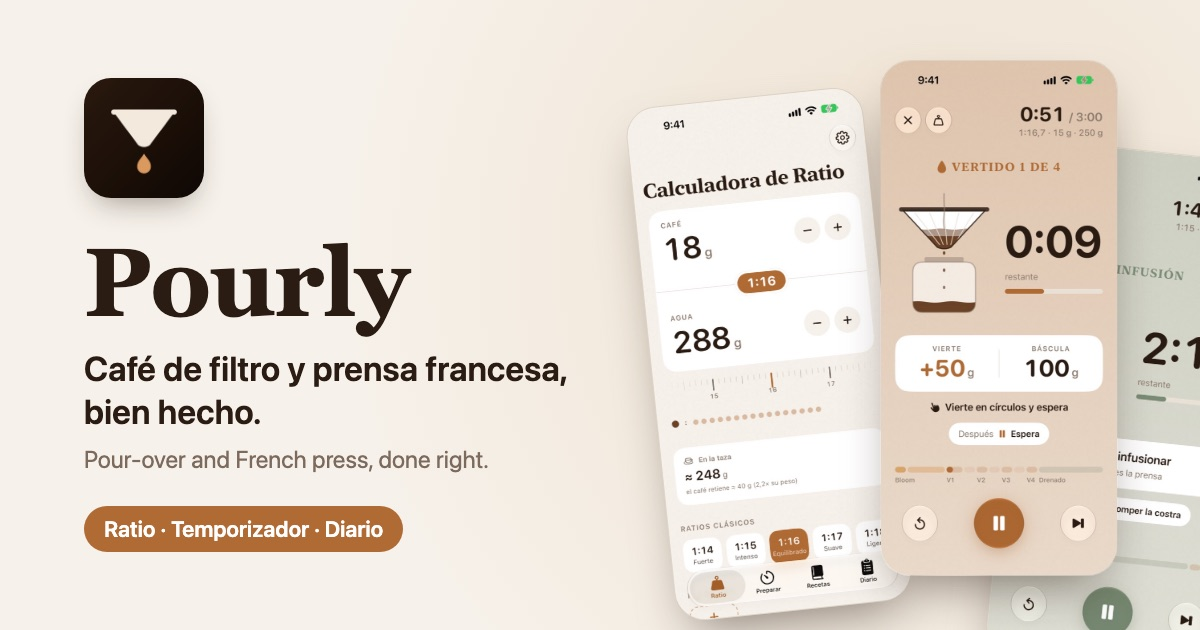
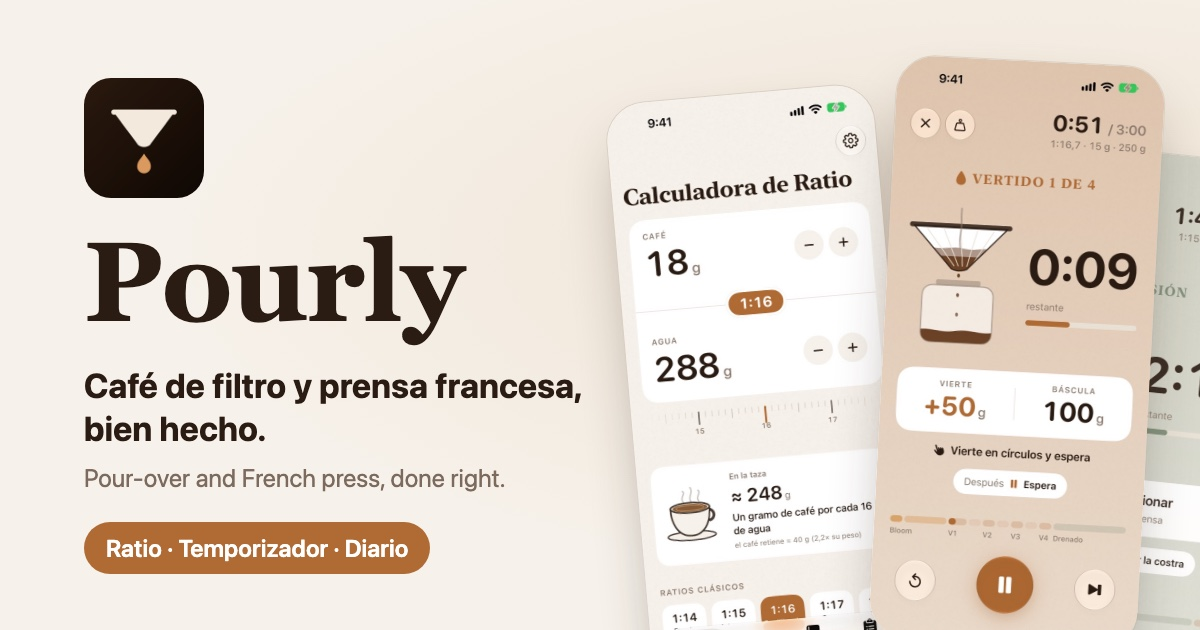
Describe the latest features and refresh the link preview
The feature cards and the 1.0 changelog entry now mention the cup that
follows the ratio's strength, the whole plan with its length before
brewing, rating the cup right after the timer and the 12-week view;
units list milliliters and °C/°F. The link preview image is
regenerated from the app repo's template and shows the current
calculator instead of the old ratio dots.

diff --git a/index.html b/index.html
@@ -133,14 +133,14 @@
         <div class="card">
           <div class="emoji" aria-hidden="true">⚖</div>
           <h3><span lang="es">Calculadora de ratio</span><span lang="en">Ratio calculator</span></h3>
-          <p lang="es">Elige si partes de la cantidad de café o de la de agua, y la otra se calcula sola. Ratios clásicos, ratios propios y una rueda para afinar a la décima. Te dice también cuánto café acabará en la taza.</p>
-          <p lang="en">Choose whether you start from the amount of coffee or of water, and the other is worked out for you. Classic ratios, your own, and a dial to fine-tune to a tenth. It also tells you how much coffee ends up in the cup.</p>
+          <p lang="es">Elige si partes de la cantidad de café o de la de agua, y la otra se calcula sola. Ratios clásicos, ratios propios y una rueda para afinar a la décima. Te dice también cuánto café acabará en la taza, junto a una taza que se oscurece o aclara según la intensidad del ratio.</p>
+          <p lang="en">Choose whether you start from the amount of coffee or of water, and the other is worked out for you. Classic ratios, your own, and a dial to fine-tune to a tenth. It also tells you how much coffee ends up in the cup, next to a cup that turns darker or lighter with the strength of the ratio.</p>
         </div>
         <div class="card">
           <div class="emoji" aria-hidden="true">🫖</div>
           <h3><span lang="es">Filtrados y prensa francesa</span><span lang="en">Pour-over and French press</span></h3>
-          <p lang="es">Pensado para métodos de percolación (filtrado) y de inmersión (prensa francesa). En percolación: bloom, vertidos con su tiempo y su espera, y drenado. En inmersión: bloom, infusión, romper la costra, reposo y bajar el émbolo. Empiezas eligiendo la temperatura del agua.</p>
-          <p lang="en">Made for percolation (pour-over) and immersion (French press) methods. Percolation: bloom, pours with their time and wait, and drawdown. Immersion: bloom, steep, break the crust, rest and plunge. You start by choosing the water temperature.</p>
+          <p lang="es">Pensado para métodos de percolación (filtrado) y de inmersión (prensa francesa). En percolación: bloom, vertidos con su tiempo y su espera, y drenado. En inmersión: bloom, infusión, romper la costra, reposo y bajar el émbolo. Empiezas eligiendo la temperatura del agua y ves el plan entero, con su duración, antes de empezar.</p>
+          <p lang="en">Made for percolation (pour-over) and immersion (French press) methods. Percolation: bloom, pours with their time and wait, and drawdown. Immersion: bloom, steep, break the crust, rest and plunge. You start by choosing the water temperature and see the whole plan, and how long it takes, before you start.</p>
         </div>
         <div class="card">
           <div class="emoji" aria-hidden="true">⏱</div>
@@ -157,14 +157,14 @@
         <div class="card">
           <div class="emoji" aria-hidden="true">📓</div>
           <h3><span lang="es">Diario y tus cafés</span><span lang="en">Journal and your coffees</span></h3>
-          <p lang="es">Valora cada taza, anota sabores y molienda, y repite tu mejor preparación con un toque. Sigue la frescura de cada paquete según su fecha de tueste.</p>
-          <p lang="en">Rate every cup, note flavors and grind, and repeat your best brew with one tap. Track how fresh each bag is from its roast date.</p>
+          <p lang="es">Valora la taza nada más terminar, anota sabores y molienda, y repite tu mejor preparación con un toque. Mira tus últimas 12 semanas de un vistazo y sigue la frescura de cada paquete según su fecha de tueste.</p>
+          <p lang="en">Rate the cup as soon as the timer ends, note flavors and grind, and repeat your best brew with one tap. See your last 12 weeks at a glance and track how fresh each bag is from its roast date.</p>
         </div>
         <div class="card">
           <div class="emoji" aria-hidden="true">🧩</div>
           <h3><span lang="es">Widget, temas e idiomas</span><span lang="en">Widget, themes and languages</span></h3>
-          <p lang="es">Widget para inicio, pantalla de bloqueo y StandBy. Seis temas en claro y oscuro con iconos a juego. En español e inglés, con unidades en gramos, onzas o tazas.</p>
-          <p lang="en">A widget for the Home Screen, Lock Screen and StandBy. Six themes in light and dark with matching icons. In English and Spanish, with grams, ounces or cups.</p>
+          <p lang="es">Widget para inicio, pantalla de bloqueo y StandBy. Seis temas en claro y oscuro con iconos a juego. En español e inglés, con unidades en gramos, onzas, mililitros o tazas, y °C o °F.</p>
+          <p lang="en">A widget for the Home Screen, Lock Screen and StandBy. Six themes in light and dark with matching icons. In English and Spanish, with grams, ounces, milliliters or cups, and °C or °F.</p>
         </div>
       </div>
       <p class="section-more"><a lang="es" href="changelog.html#en-camino">¿Qué viene después? Mira lo que estamos preparando →</a><a lang="en" href="changelog.html#coming-next">What's next? See what we're working on →</a></p>

diff --git a/changelog.html b/changelog.html
@@ -88,11 +88,11 @@
       <h2>Versión 1.0 · Próximamente</h2>
       <p>La primera versión de Pourly.</p>
       <ul>
-        <li><strong>Calculadora de ratio</strong> con ratios clásicos y propios, una rueda para afinar a la décima y cuánto café acaba en la taza.</li>
-        <li><strong>Preparar</strong> filtrados y prensa francesa, empezando por la temperatura del agua.</li>
+        <li><strong>Calculadora de ratio</strong> con ratios clásicos y propios, una rueda para afinar a la décima y una taza que muestra cuánto café acaba en ella y lo intenso que sale.</li>
+        <li><strong>Preparar</strong> filtrados y prensa francesa, empezando por la temperatura del agua, con el plan entero y su duración a la vista.</li>
         <li><strong>Temporizador guiado</strong> a pantalla completa, con modo báscula y un aviso antes de cada cambio de fase.</li>
         <li><strong>Recetas de referencia</strong>: tres para filtro y dos para prensa francesa, escaladas a tu dosis.</li>
-        <li><strong>Diario y tus cafés</strong>, con valoraciones, notas de sabor, molienda y frescura según la fecha de tueste.</li>
+        <li><strong>Diario y tus cafés</strong>, con valoraciones nada más terminar, notas de sabor, molienda, tus últimas 12 semanas de un vistazo y frescura según la fecha de tueste.</li>
         <li><strong>Widget</strong> para inicio, pantalla de bloqueo y StandBy.</li>
         <li>Seis temas con iconos a juego, en español e inglés.</li>
       </ul>
@@ -136,11 +136,11 @@
       <h2>Version 1.0 · Coming soon</h2>
       <p>The first version of Pourly.</p>
       <ul>
-        <li><strong>Ratio calculator</strong> with classic and custom ratios, a dial to fine-tune to a tenth and how much coffee ends up in the cup.</li>
-        <li><strong>Brew</strong> pour-over and French press, starting with the water temperature.</li>
+        <li><strong>Ratio calculator</strong> with classic and custom ratios, a dial to fine-tune to a tenth and a cup that shows how much coffee ends up in it and how strong it is.</li>
+        <li><strong>Brew</strong> pour-over and French press, starting with the water temperature, with the whole plan and its length in view.</li>
         <li><strong>Guided timer</strong> in full screen, with a scale mode and a heads-up before every phase change.</li>
         <li><strong>Benchmark recipes</strong>: three for pour-over and two for French press, scaled to your dose.</li>
-        <li><strong>Journal and your coffees</strong>, with ratings, flavor notes, grind and freshness from the roast date.</li>
+        <li><strong>Journal and your coffees</strong>, with ratings as soon as you finish, flavor notes, grind, your last 12 weeks at a glance and freshness from the roast date.</li>
         <li><strong>Widget</strong> for the Home Screen, Lock Screen and StandBy.</li>
         <li>Six themes with matching icons, in English and Spanish.</li>
       </ul>
